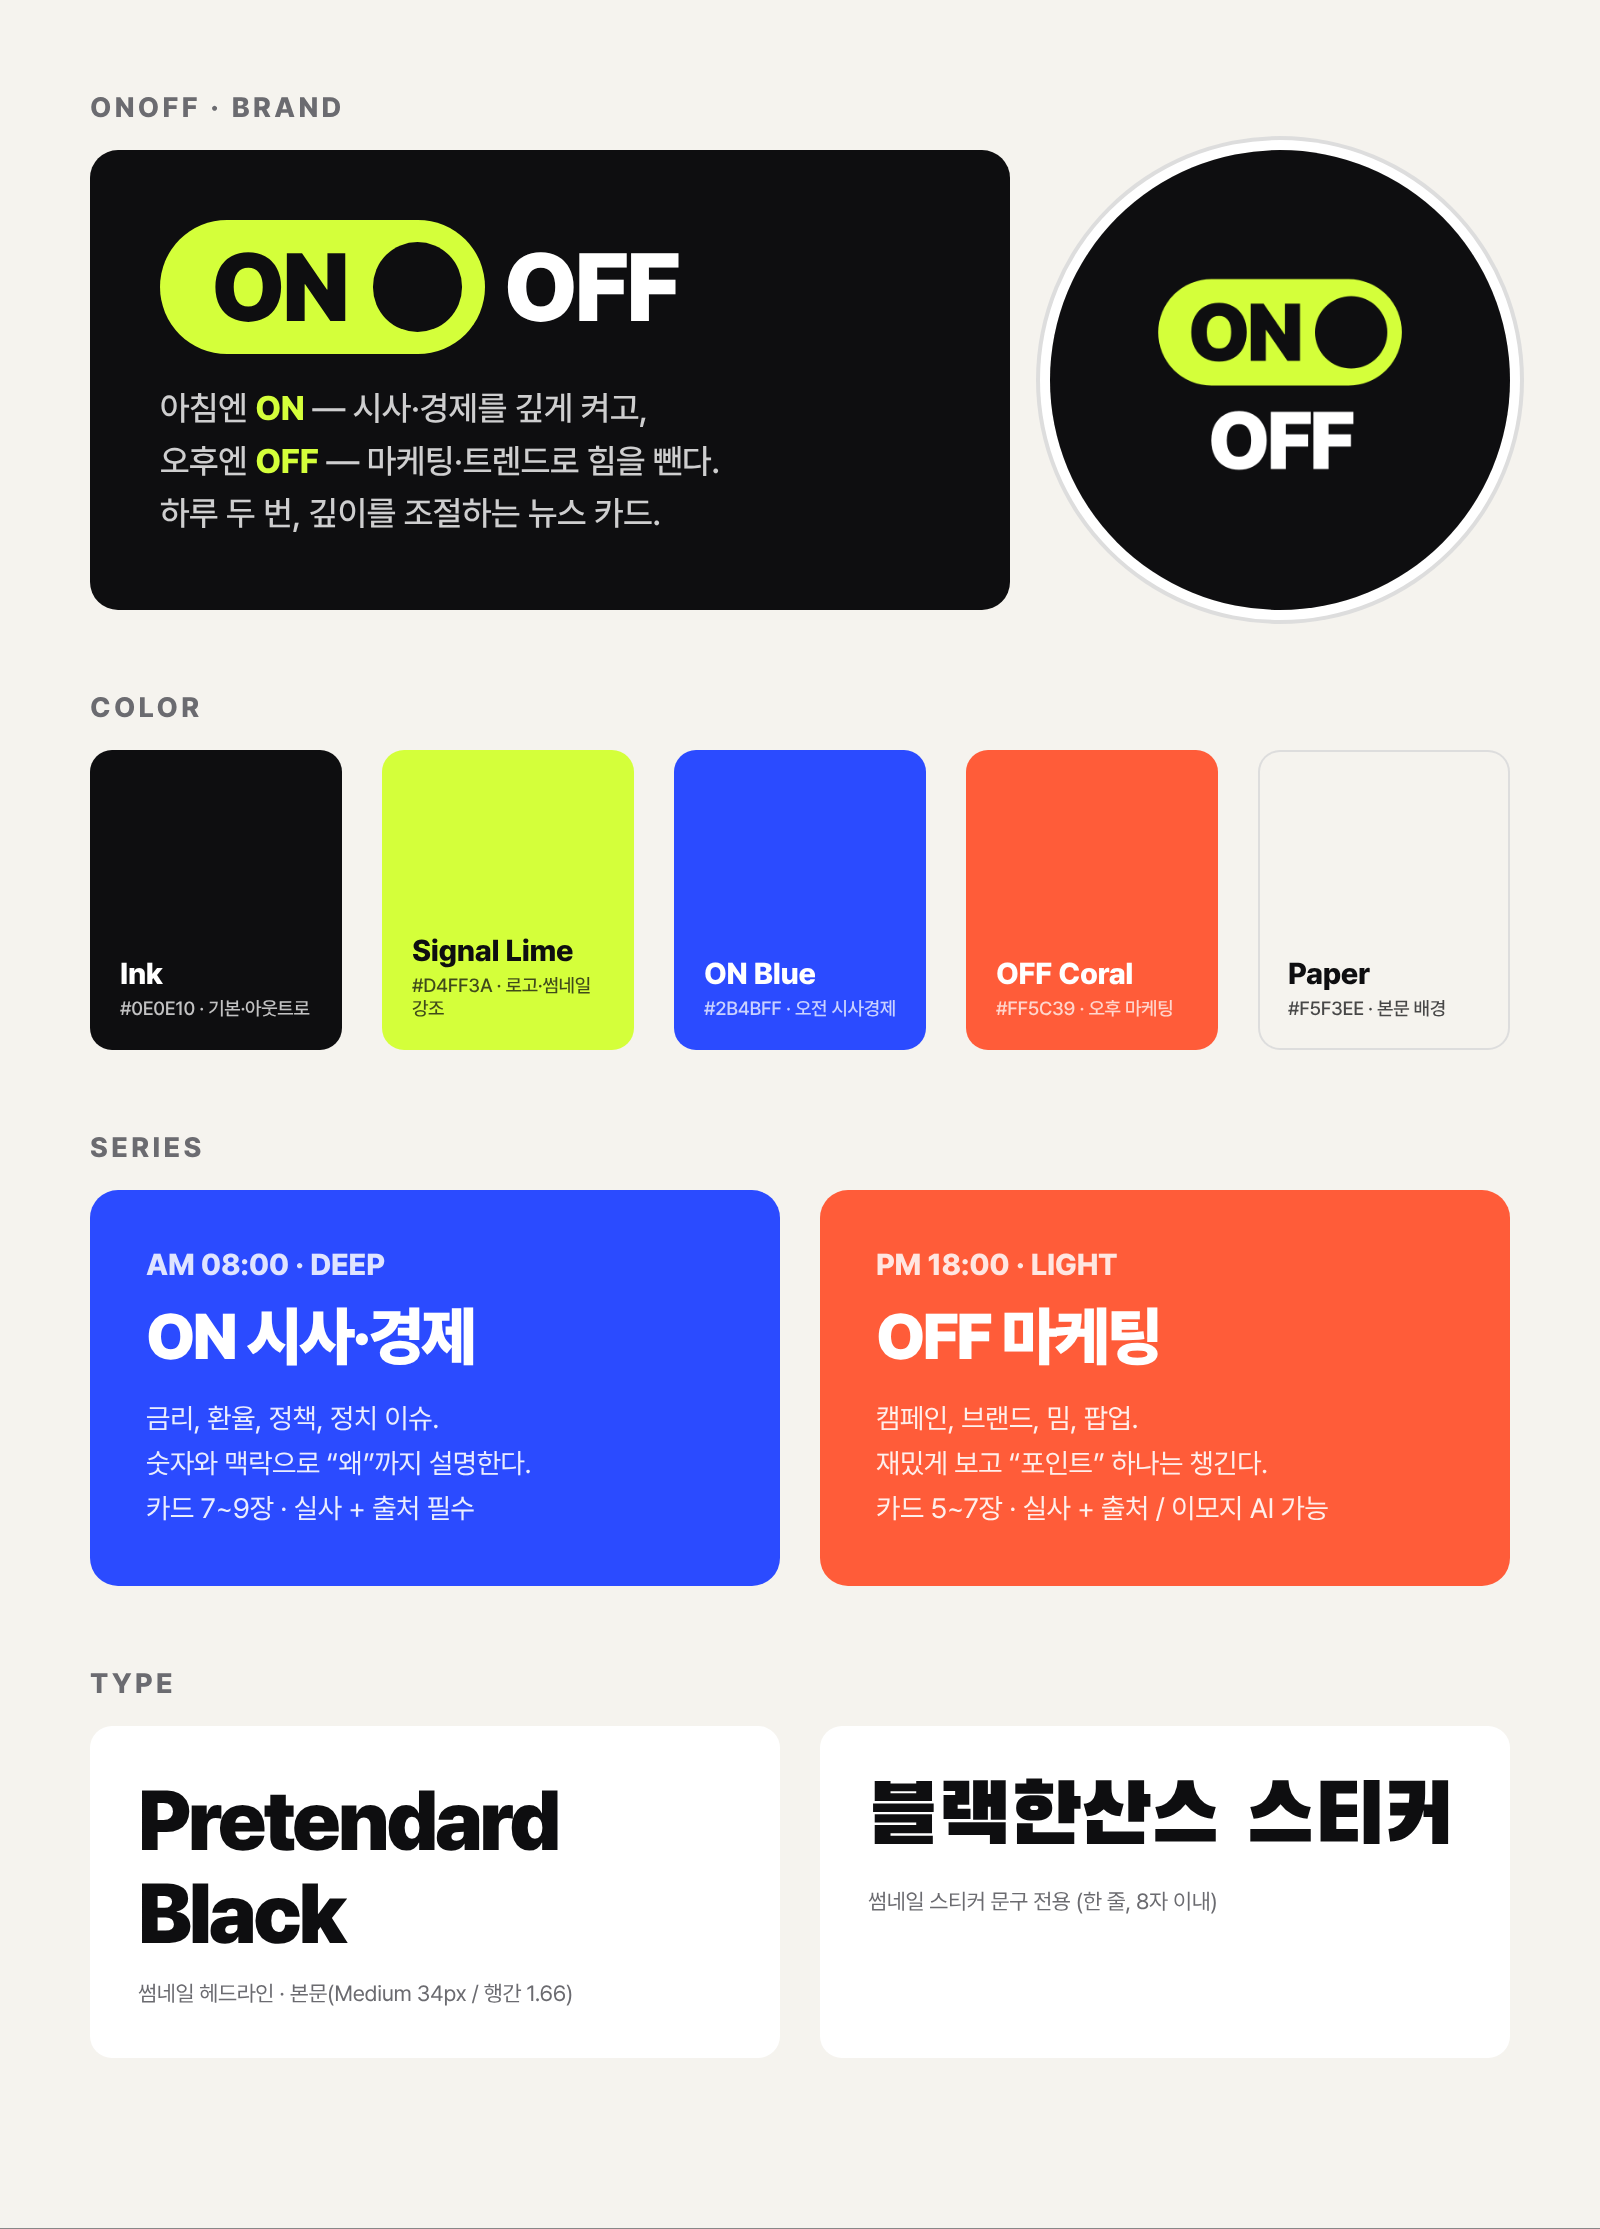
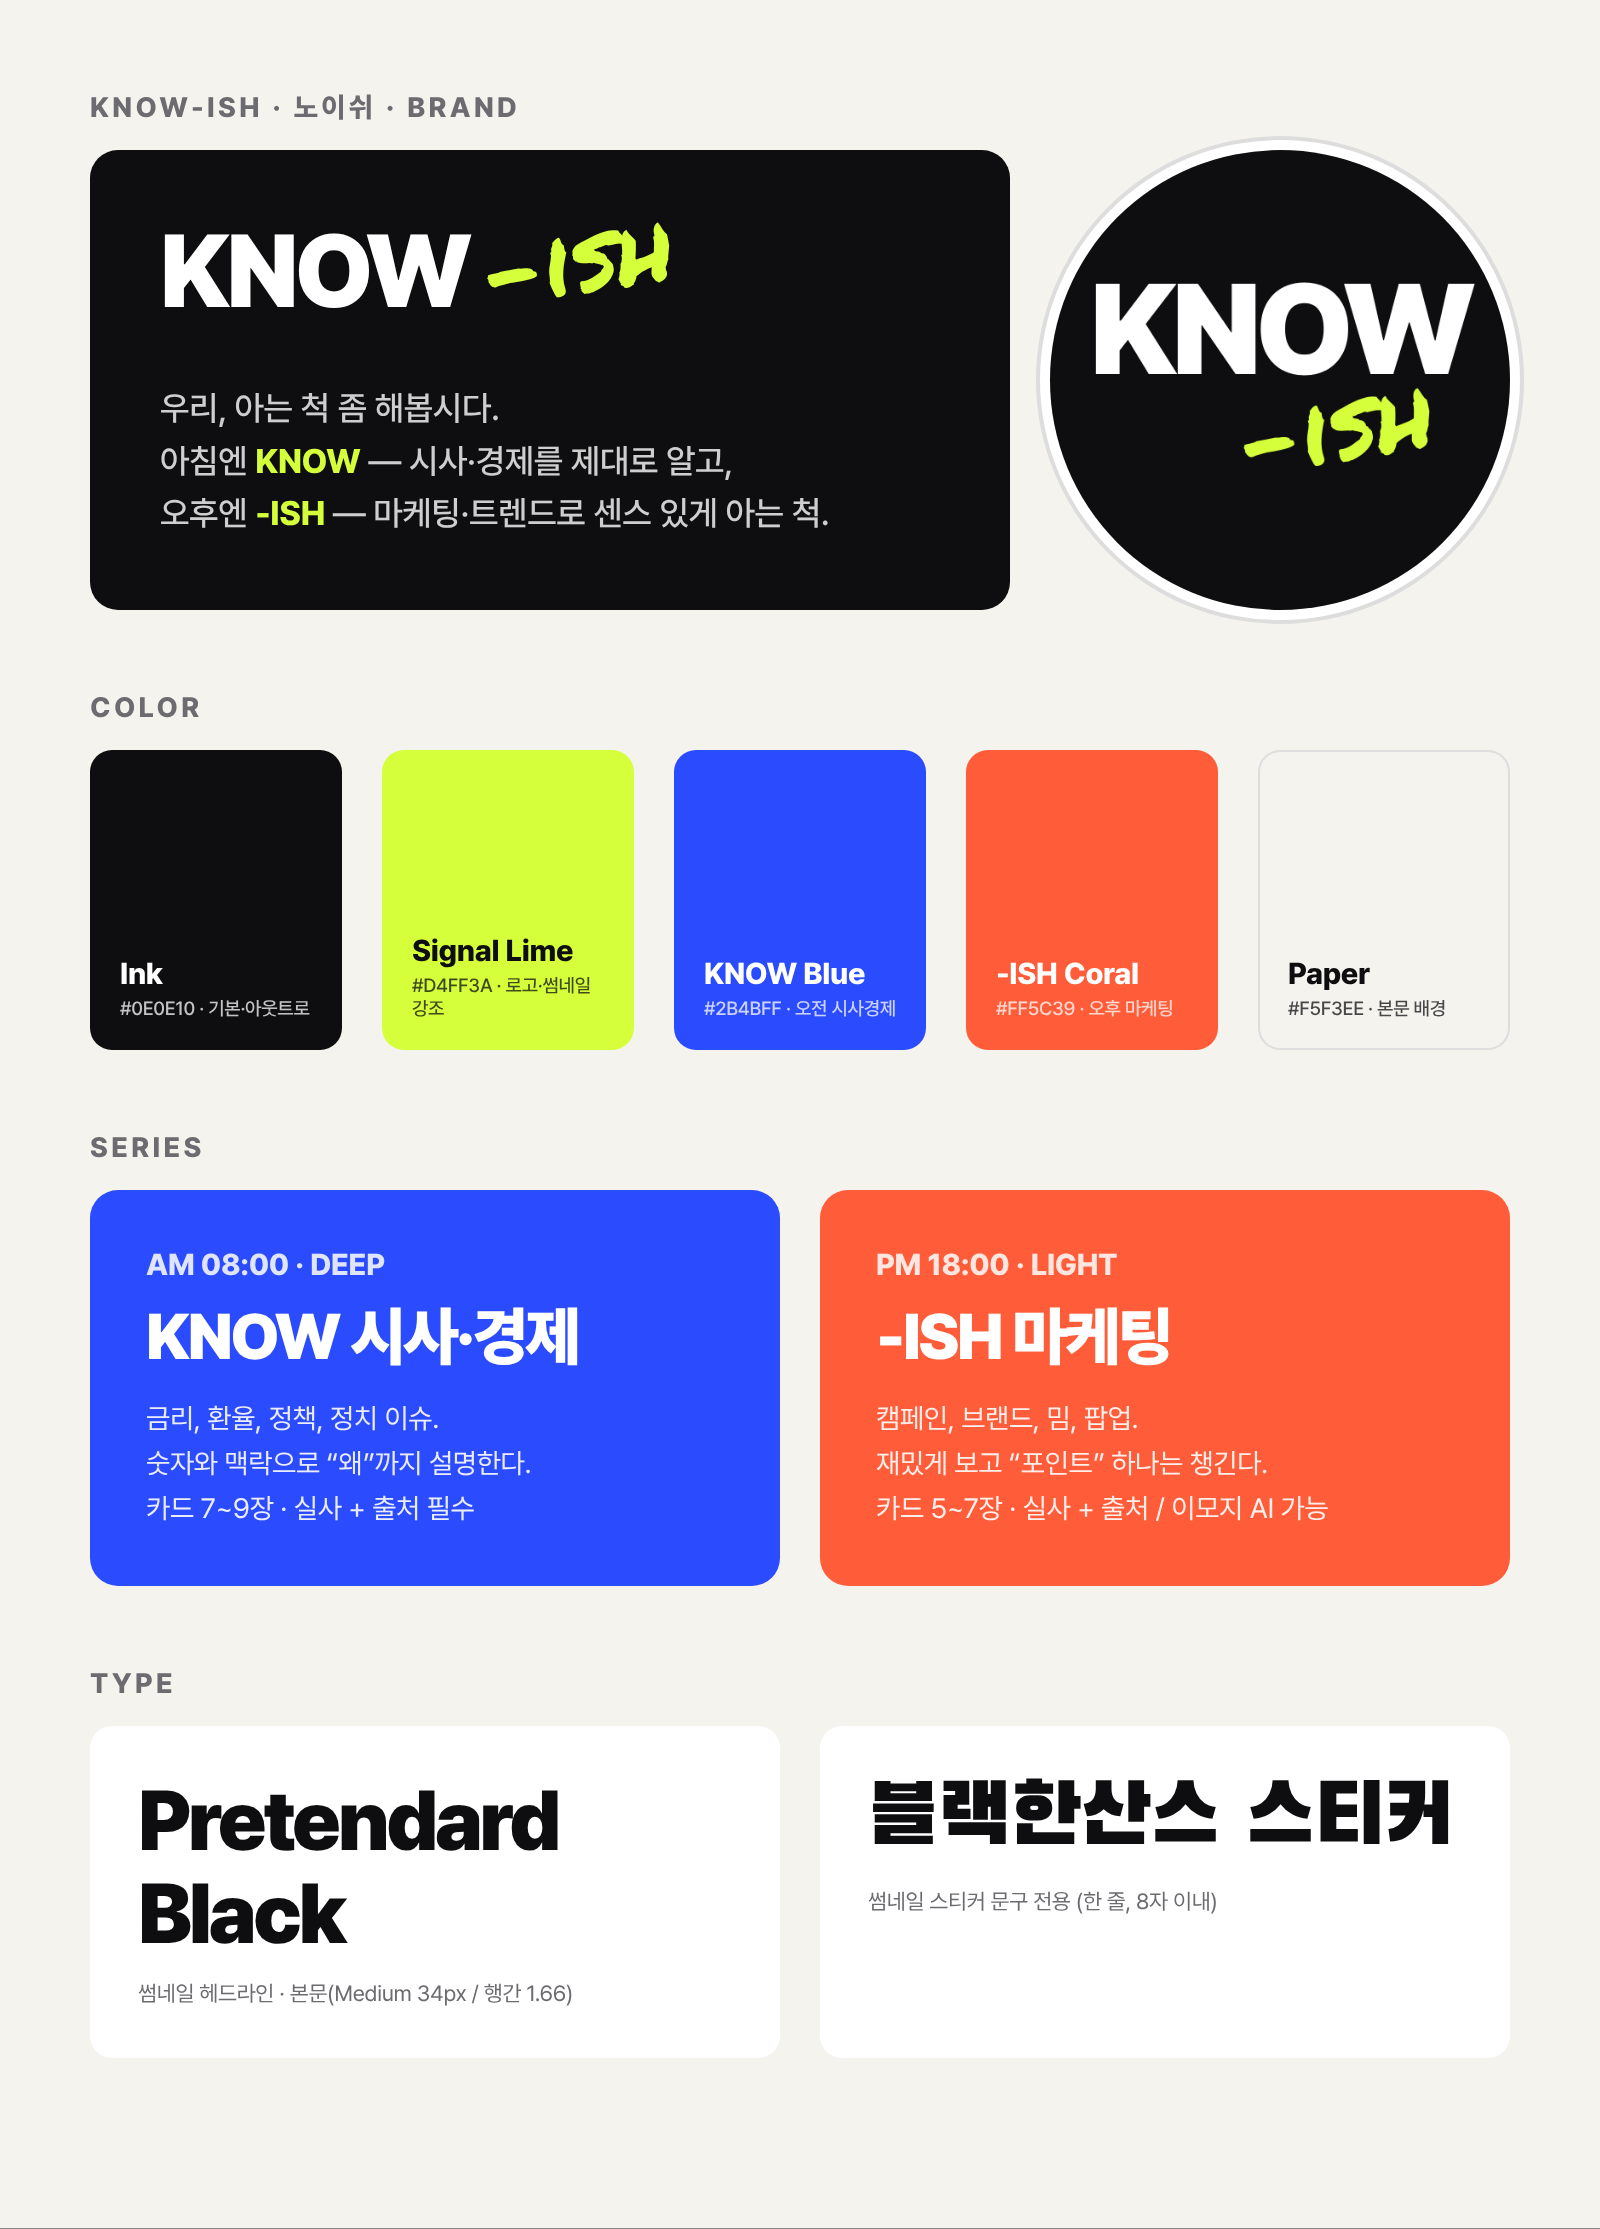
브랜드명 KNOW-ISH로 변경: 로고·프로필·브랜드 시트·샘플 재렌더
Claude-Session: https://claude.ai/code/session_019qCDgtKUUxWTJuWU3cPXKC

diff --git a/onoff/README.md b/onoff/README.md
@@ -1,7 +1,7 @@
-# ONOFF — 하루 두 번, 깊이를 조절하는 뉴스 카드
+# KNOW-ISH (노이쉬) — 우리, 아는 척 좀 해봅시다
 
-- **ON (오전 08:00, 시사·경제)**: 깊게. 카드 7~9장
-- **OFF (오후 18:00, 마케팅)**: 가볍게. 카드 5~7장
+- **KNOW (오전 08:00, 시사·경제)**: 깊게. 카드 7~9장
+- **-ISH (오후 18:00, 마케팅)**: 가볍게. 카드 5~7장
 - 썸네일은 사진을 꽉 채운 배경에 스티커 문구와 2줄 헤드라인을 올린 형태, 본문은 종이 배경에 헤드라인, 형광펜 강조, Ref. 표기
 - 실사 이미지는 출처 필수. 이모지·일러스트는 AI 생성 가능
 
